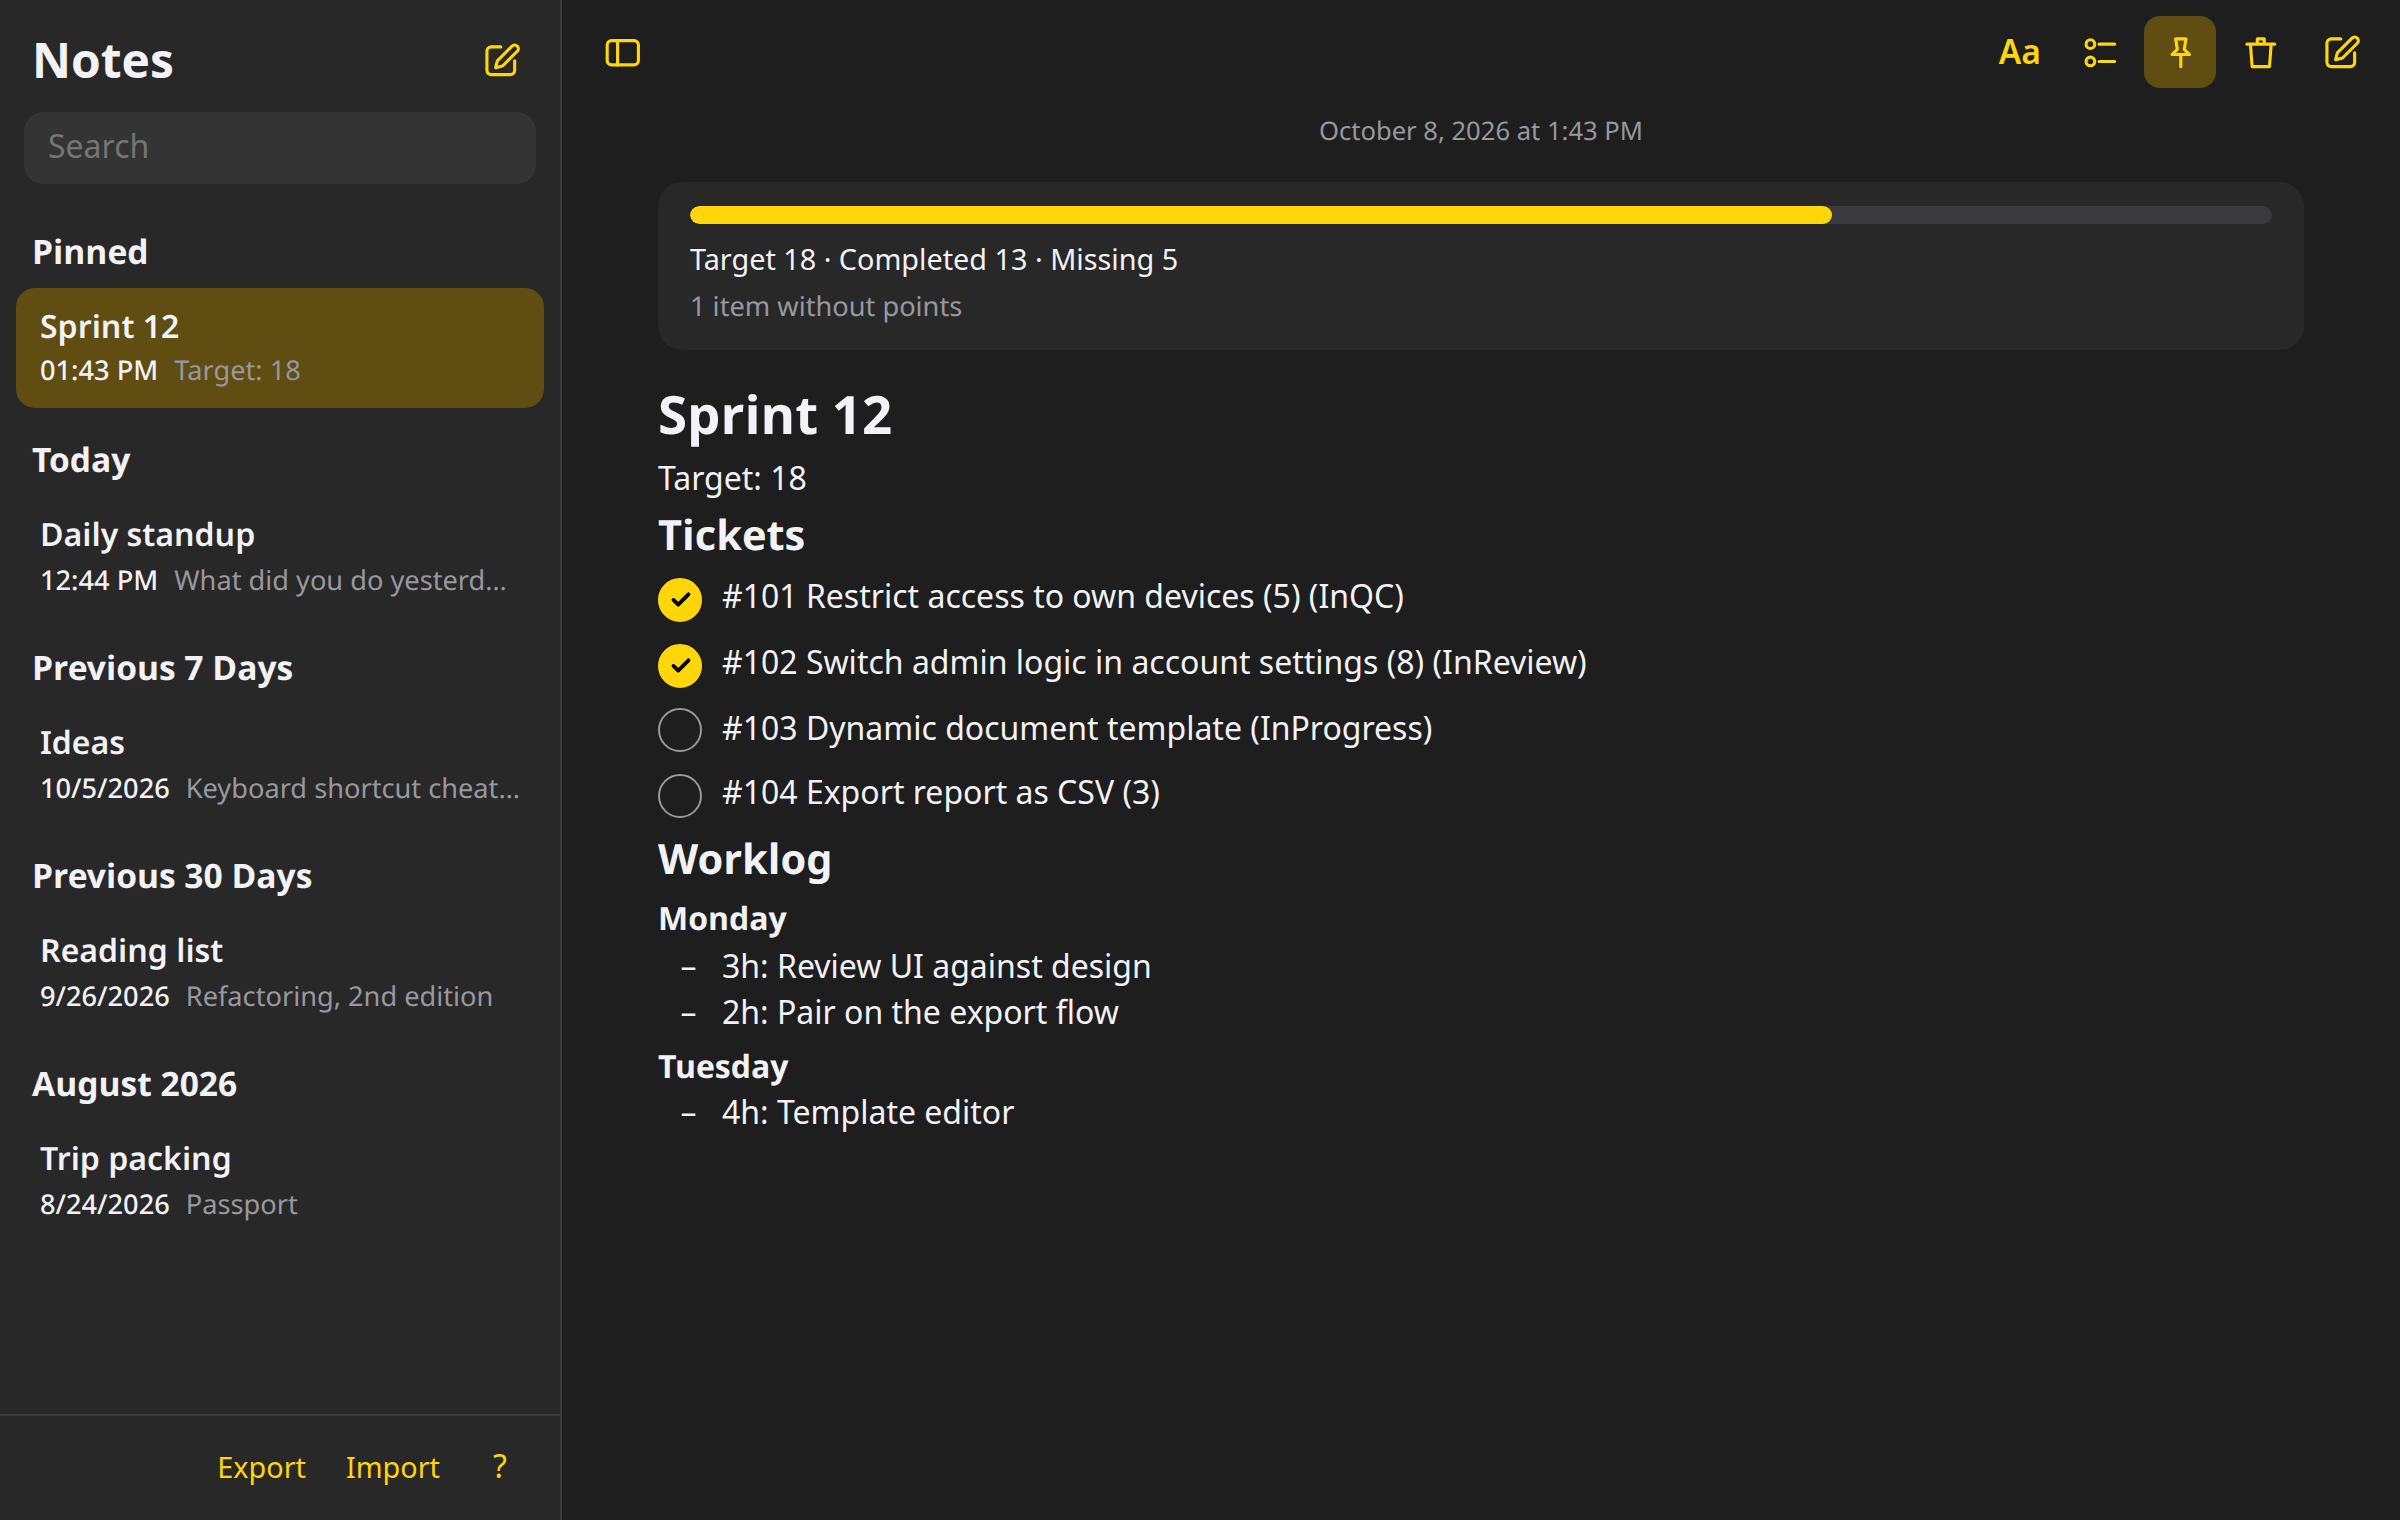
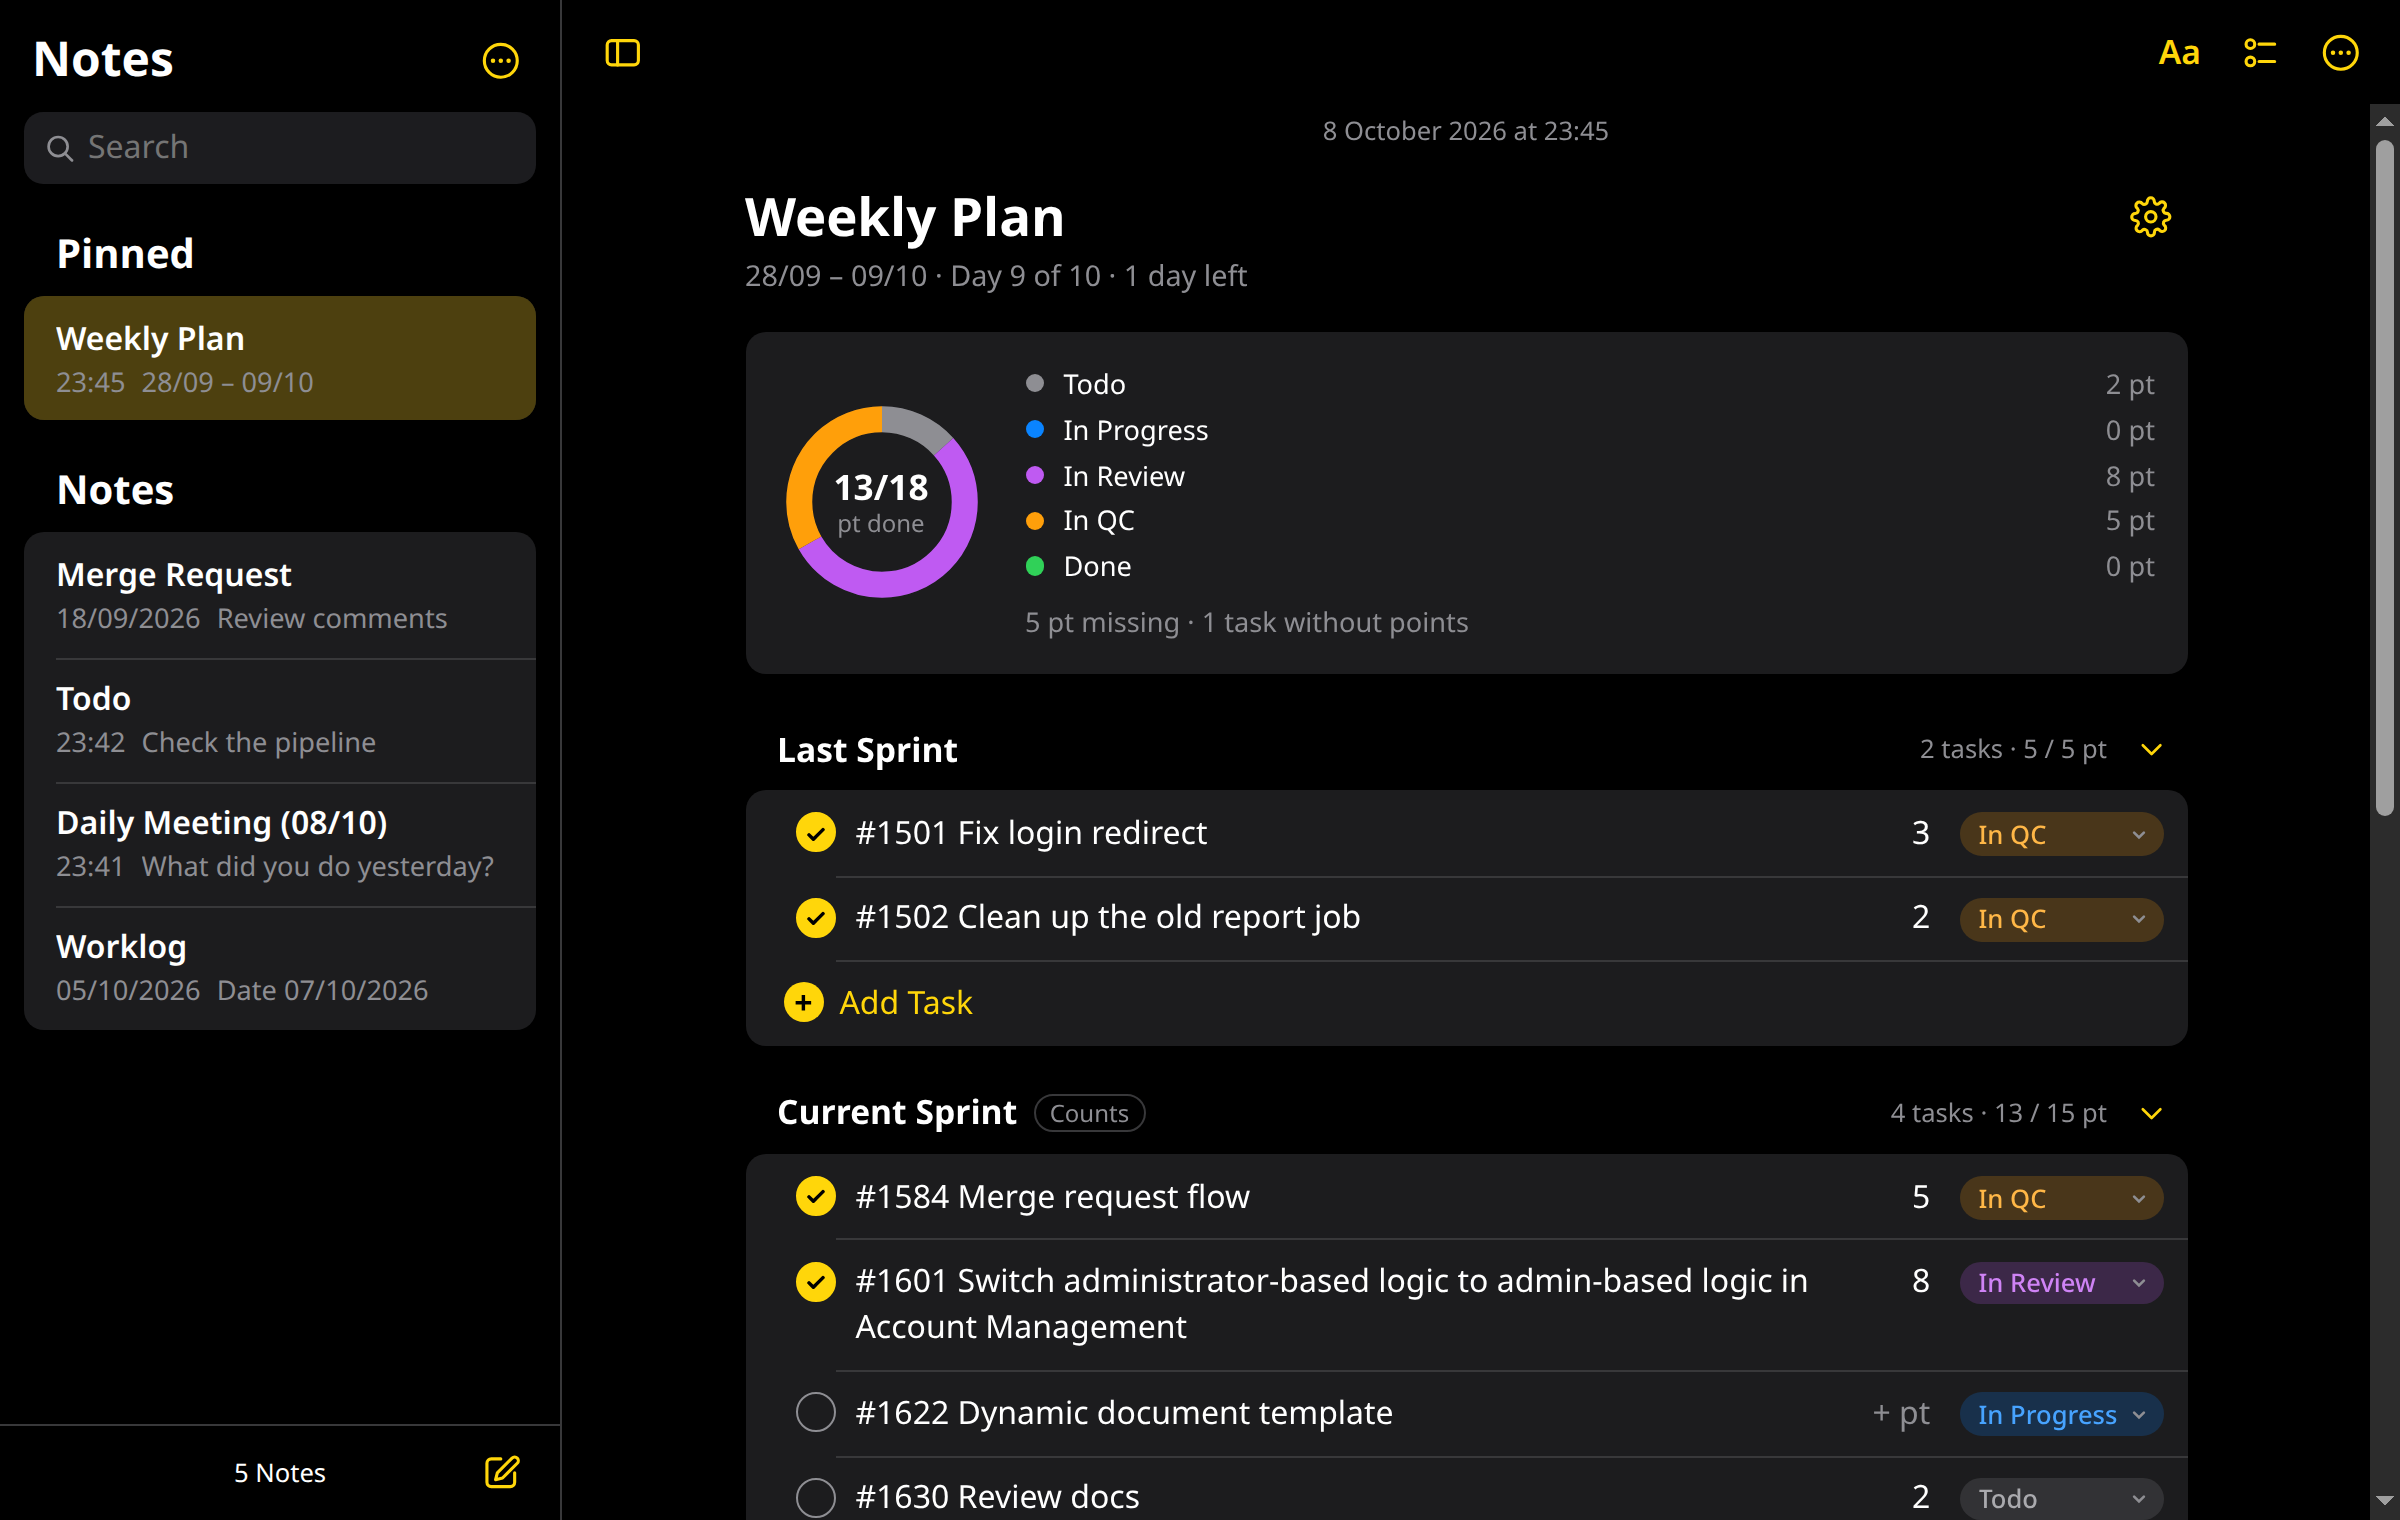
docs: describe Task Tracking and the ⋯ menus, and retake the screenshots
New screenshots show the iOS colours, the inset grouped notes list and a task
tracker in light, dark and the narrow layout.

diff --git a/README.md b/README.md
@@ -4,20 +4,20 @@
 [![License: MIT](https://img.shields.io/github/license/ttncode/notelet)](LICENSE)
 ![Chrome Manifest V3](https://img.shields.io/badge/Chrome-Manifest%20V3-yellow)
 
-Lightweight notes for Chrome in the style of the Notes app on iPhone, with a points chart for sprint notes. Notes stay in your browser — no account, no sync, nothing sent anywhere.
+Lightweight notes for Chrome in the style of the Notes app on iPhone, with task tracking for sprints. Notes stay in your browser — no account, no sync, nothing sent anywhere.
 
 Notelet is an independent project and is not affiliated with or endorsed by Apple.
 
 <picture>
   <source media="(prefers-color-scheme: dark)" srcset="assets/screenshots/notelet-dark.png">
-  <img src="assets/screenshots/notelet-light.png" width="900" alt="Notelet with a pinned sprint note open: a bar shows Target 18, Completed 13, Missing 5 above a checklist of tickets, with the notes list grouped by Pinned, Today and earlier on the left">
+  <img src="assets/screenshots/notelet-light.png" width="900" alt="Notelet with a pinned task tracker open: a donut of points by status shows 13 of 18 points done above the Last Sprint and Current Sprint groups of tasks, each with a tick, points and a status; the notes list on the left shows Pinned and Notes cards">
 </picture>
 
 In a narrow window Notelet switches to the iPhone layout: the list first, then the note with a back button.
 
 <p>
-  <img src="assets/screenshots/notelet-narrow-list.png" width="260" alt="Narrow layout in dark mode showing the notes list grouped by Pinned, Today, Previous 7 Days, Previous 30 Days and month">
-  <img src="assets/screenshots/notelet-narrow-note.png" width="260" alt="Narrow layout in dark mode showing the sprint note with its points bar, ticked tickets and a worklog">
+  <img src="assets/screenshots/notelet-narrow-list.png" width="260" alt="Narrow layout in dark mode showing the notes list as Pinned and Notes cards with 24-hour times, the note count and the compose button at the bottom">
+  <img src="assets/screenshots/notelet-narrow-note.png" width="260" alt="Narrow layout in dark mode showing the task tracker with its status donut and the Last Sprint group, each task with its status under the title">
 </p>
 
 ## Install
@@ -35,7 +35,7 @@ Works the same in Edge (`edge://extensions`) and Brave (`brave://extensions`).
 
 Extensions loaded this way never update themselves.
 
-1. Export a backup (sidebar → **Export**).
+1. Export a backup (**⋯** above the notes list → **Export**).
 2. Replace the folder's contents with the new release.
 3. In `chrome://extensions`, click the reload icon on Notelet.
 
@@ -45,22 +45,22 @@ Your notes stay: Notelet's extension ID is fixed, so Chrome keeps the same stora
 
 Notes live only in this browser profile. **Removing the extension deletes all of them**, and Chrome offers no way to keep them. Export regularly; **Import** merges a backup back in (a note with the same ID is replaced).
 
-## Sprint notes
+## Task tracking
 
-Click the compose button and choose **New Sprint** (or press `Alt+S`). A sprint note starts the day after your last sprint ends, lasts two weeks and keeps the last target.
+Click the compose button and choose **New Task Tracking** (or press `Alt+S`). A tracker starts the working day after your last one ends, lasts ten working days (Monday to Friday), keeps the last target and copies the last tracker's group names.
 
-- The ring at the top shows completed points against the target, the dates and the sprint day.
-- Each checklist line is a ticket. Click its **points** chip to type a number and its **status** chip to move it to the next status.
-- Tick a ticket when its development is done; only ticked tickets count as completed. Status is for tracking only.
-- Tickets live in two sections, **Last Sprint** (for tracking) and **Current Sprint**. By default only Current Sprint counts towards the target; ⚙ lets you rename the sections and choose which ones count.
-- Drag a ticket by its ⋮⋮ grip to reorder it or move it to the other section, or press Alt+Up / Alt+Down with the cursor in it.
-- The ⚙ button changes this sprint's dates and target, and the section names and status names, colours and order shared by all sprints.
+- The donut shows the points of the counted groups by status, with done points against the target in the middle and what is still missing below.
+- Tasks live in groups, **Last Sprint** and **Current Sprint** to start with. Each row has a tick, the task, its points and a status dropdown. **+ Add Task** adds one; **+ Add Group** adds a group, and clicking a group's name renames it. The chevron folds a group away.
+- Tick a task when its development is done; only ticked tasks with points count as completed. Status is for tracking only.
+- In a task, Enter adds the next task and Backspace on an empty one removes it. Drag the ⋮⋮ grip, or press Alt+Up / Alt+Down, to move a task, also into another group.
+- ⚙ changes the dates and target, **Count points from** (tick any of this tracker's groups; only Current Sprint by default) and the status names, colours and order shared by all trackers.
+- Anything else goes in **Notes** under the groups, as ordinary note text.
 
-Notes from earlier versions that used a `Target: 18` line are converted to sprint notes automatically.
+Sprint notes from earlier versions, including ones with a `Target: 18` line, are converted automatically: their Last Sprint and Current Sprint lists become groups and the rest stays as notes.
 
 ## Keyboard shortcuts
 
-Click **?** in the sidebar for the full list. Text styles follow Notes for Mac with Ctrl in place of Cmd; where Chrome reserves a shortcut (Ctrl+N, Ctrl+Shift+T) Notelet uses Alt instead.
+Choose **⋯ → Keyboard Shortcuts** above the notes list for the full list. Text styles follow Notes for Mac with Ctrl in place of Cmd; where Chrome reserves a shortcut (Ctrl+N, Ctrl+Shift+T) Notelet uses Alt instead.
 
 ## Development
 
